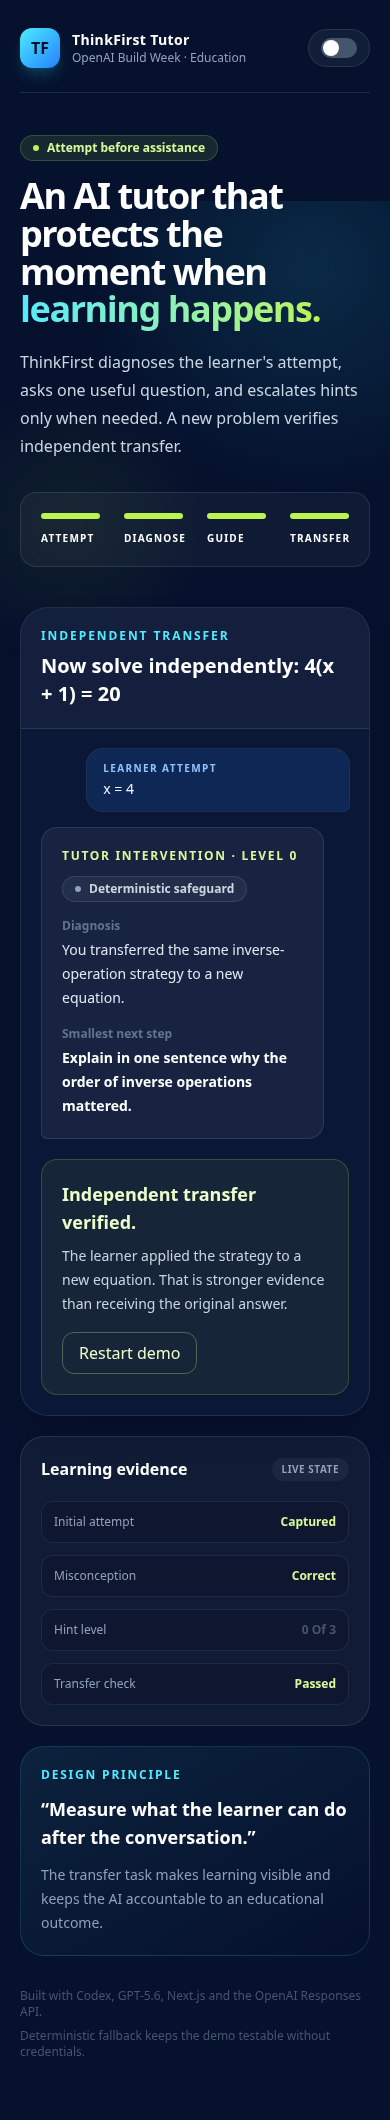
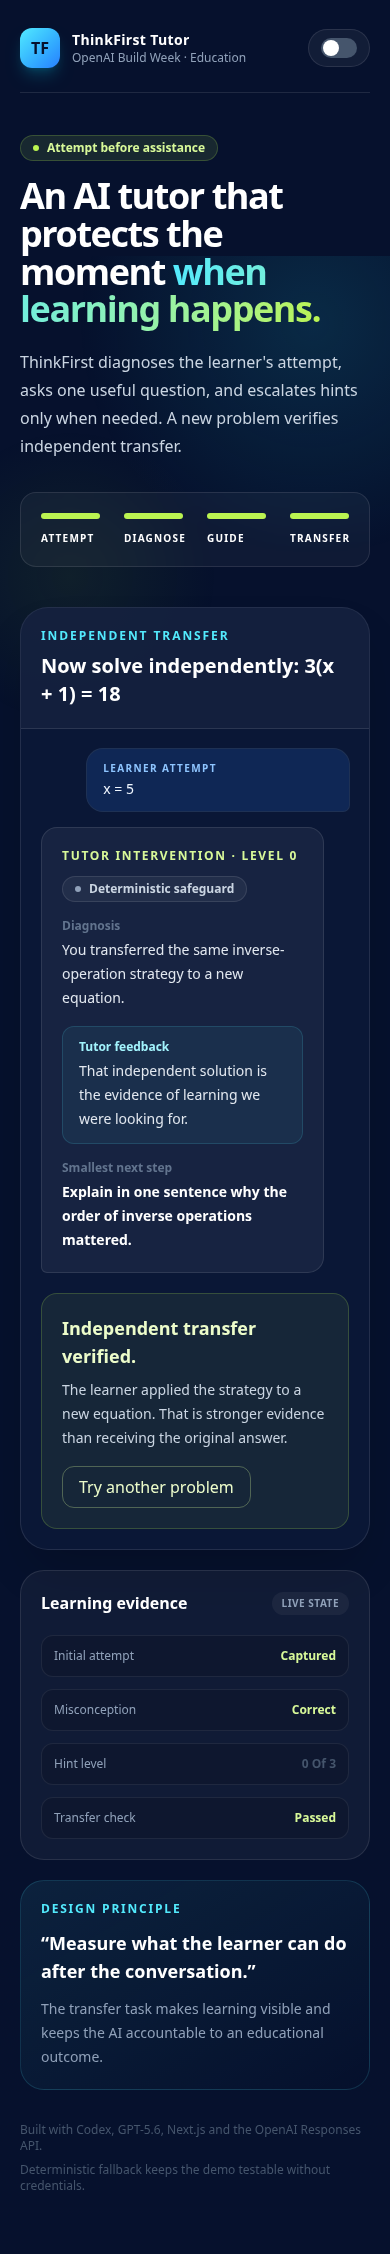
docs: refresh final production screenshots

diff --git a/DEVPOST.md b/DEVPOST.md
@@ -139,7 +139,7 @@ The recording-ready English voiceover and shot list are in
 - [x] Project Story drafted
 - [x] Built With list drafted
 - [x] 3:2 project cover generated
-- [ ] Final desktop and mobile screenshots recaptured from production
+- [x] Final desktop and mobile screenshots recaptured from production
 - [x] Repository licensed under MIT
 - [x] Recording-ready English voiceover and shot list drafted
 - [ ] Configure and verify `OPENAI_API_KEY` in production